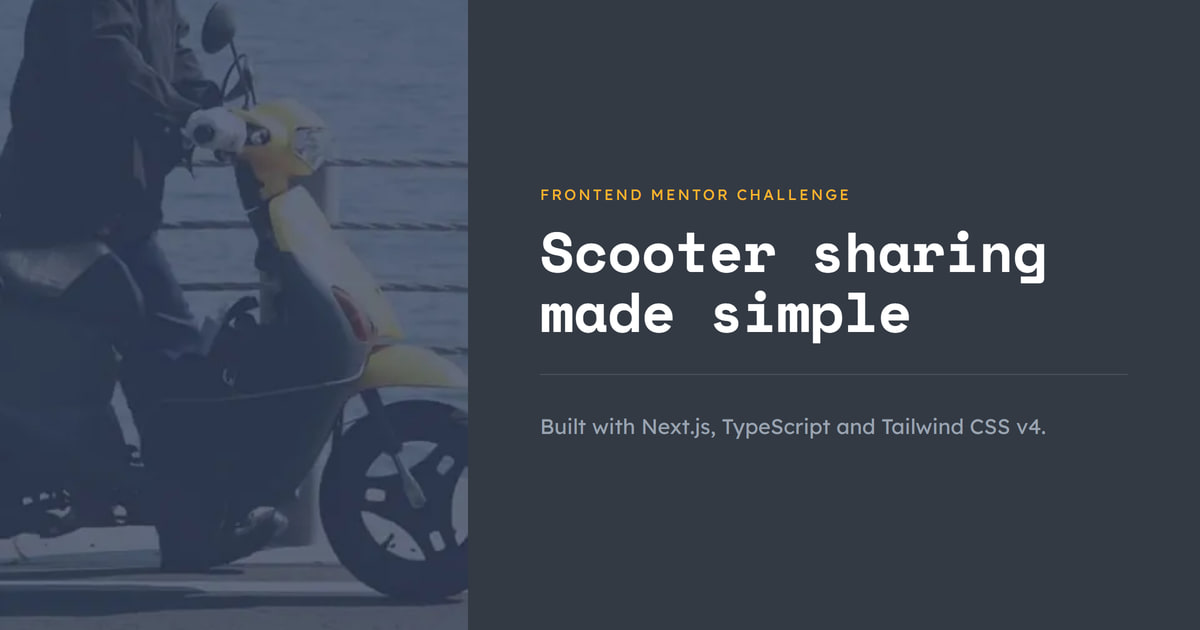
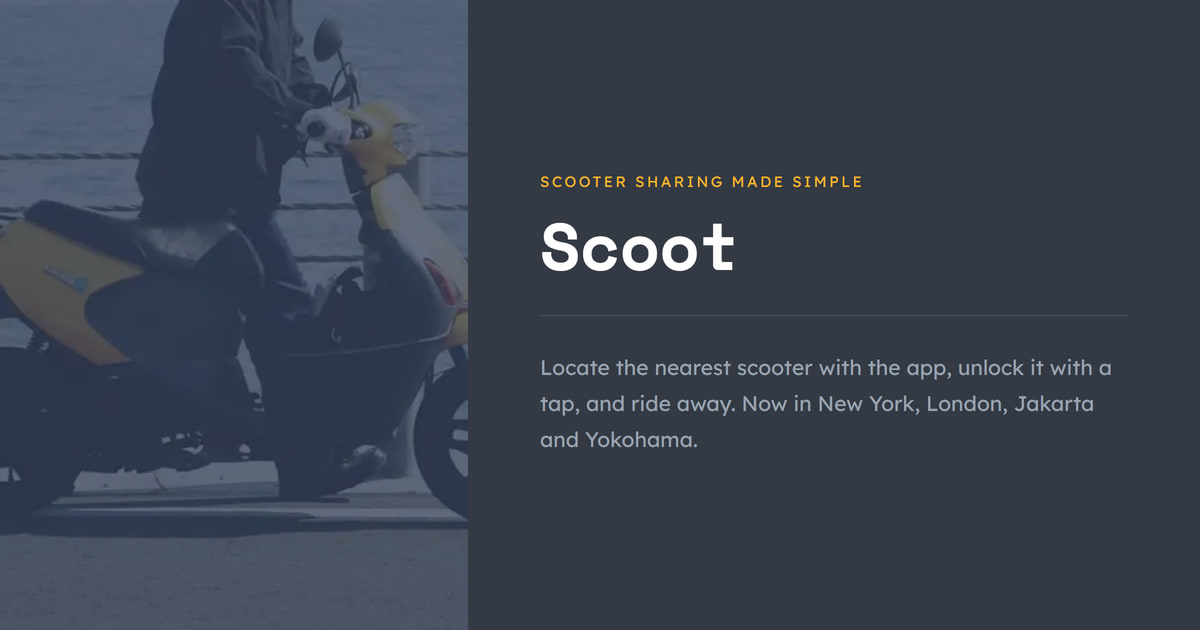
feat: update metadata descriptions and improve Open Graph configuration

diff --git a/src/app/site.ts b/src/app/site.ts
@@ -4,22 +4,29 @@ export const siteUrl =
   "https://scoot-multi-page-website.abdelrhman-ahmed8881.workers.dev";
 
 export const siteName = "Scoot";
-export const siteTitle = "Scoot — Scooter sharing made simple";
+export const siteTitle = "Scoot | Scooter sharing made simple";
 
 const images = [
   {
     url: "/opengraph-image.jpg",
     width: 1200,
     height: 630,
-    alt: "Scoot — scooter sharing made simple",
+    alt: "Scoot, scooter sharing made simple",
   },
 ];
+
+export const openGraphBase = {
+  siteName,
+  locale: "en_US",
+  type: "website" as const,
+  images,
+};
 
 type Page = { title?: string; description: string; path: string };
 
 export function pageMetadata({ title, description, path }: Page): Metadata {
   const shared = {
-    title: title ? `${title} — ${siteName}` : siteTitle,
+    title: title ? `${title} | ${siteName}` : siteTitle,
     description,
   };
 
@@ -27,14 +34,7 @@ export function pageMetadata({ title, description, path }: Page): Metadata {
     title: title ?? { absolute: siteTitle },
     description,
     alternates: { canonical: path },
-    openGraph: {
-      ...shared,
-      url: path,
-      siteName,
-      locale: "en_US",
-      type: "website",
-      images,
-    },
+    openGraph: { ...openGraphBase, ...shared, url: path },
     twitter: { ...shared, card: "summary_large_image", images },
   };
 }

diff --git a/src/app/layout.tsx b/src/app/layout.tsx
@@ -3,7 +3,7 @@ import { SiteFooter, SiteHeader } from "@/components/layout";
 import type { Metadata, Viewport } from "next";
 import { Lexend_Deca, Space_Mono } from "next/font/google";
 
-import { siteUrl } from "./site";
+import { openGraphBase, siteTitle, siteUrl } from "./site";
 
 import "./globals.css";
 
@@ -21,25 +21,19 @@ const lexendDeca = Lexend_Deca({
   display: "swap",
 });
 
-const title = "Scoot — Scooter sharing made simple";
 const description =
-  "Scoot takes the hassle out of urban mobility. Locate the nearest scooter with the app, unlock it with a tap, and you're away — a Frontend Mentor challenge built with Next.js, TypeScript and Tailwind CSS.";
+  "Locate the nearest scooter with the app, unlock it with a tap, and ride away. Scoot runs in New York, London, Jakarta and Yokohama.";
 
 export const metadata: Metadata = {
   metadataBase: new URL(siteUrl),
-  title: { default: title, template: "%s — Scoot" },
+  title: { default: siteTitle, template: "%s | Scoot" },
   description,
-  openGraph: {
-    title,
-    description,
-    siteName: "Scoot",
-    locale: "en_US",
-    type: "website",
-  },
+  openGraph: { ...openGraphBase, title: siteTitle, description },
   twitter: {
-    card: "summary",
-    title,
+    card: "summary_large_image",
+    title: siteTitle,
     description,
+    images: openGraphBase.images,
   },
 };
 

diff --git a/src/app/about/page.tsx b/src/app/about/page.tsx
@@ -10,7 +10,7 @@ import { pageMetadata } from "../site";
 export const metadata = pageMetadata({
   title: "About",
   description:
-    "How Scoot works, what we stand for, and answers to the questions riders ask most — from helmets and licences to finding a scooter near you.",
+    "How Scoot works, what we stand for, and answers to the questions riders ask most: helmets, licences, and finding a scooter near you.",
   path: "/about",
 });
 

diff --git a/src/app/careers/page.tsx b/src/app/careers/page.tsx
@@ -10,7 +10,7 @@ import { pageMetadata } from "../site";
 export const metadata = pageMetadata({
   title: "Careers",
   description:
-    "Open roles at Scoot in New York, London, Jakarta and Yokohama — and why the people building urban mobility choose to do it here.",
+    "Open roles at Scoot in New York, London, Jakarta and Yokohama, and why the people building urban mobility choose to do it here.",
   path: "/careers",
 });
 

diff --git a/src/app/page.tsx b/src/app/page.tsx
@@ -5,7 +5,7 @@ import { pageMetadata } from "./site";
 
 export const metadata = pageMetadata({
   description:
-    "Scooter sharing made simple. Locate the nearest Scoot with the app, unlock it with a tap, and ride away — a Frontend Mentor build in Next.js and Tailwind CSS.",
+    "Scooter sharing made simple. Locate the nearest Scoot with the app, unlock it with a tap, and ride away. Now in four cities.",
   path: "/",
 });
 
